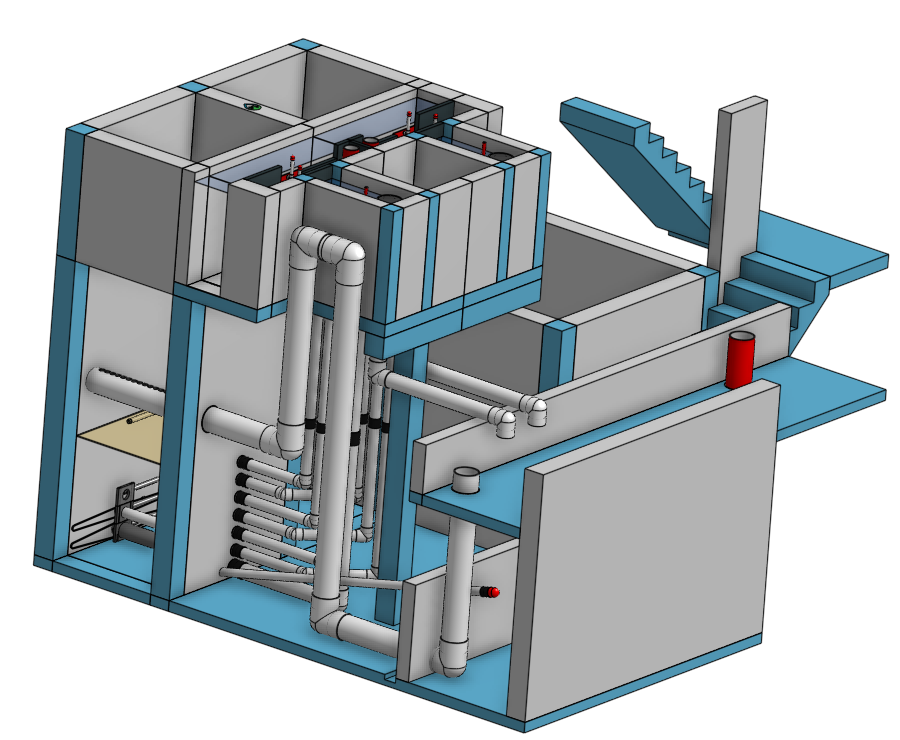
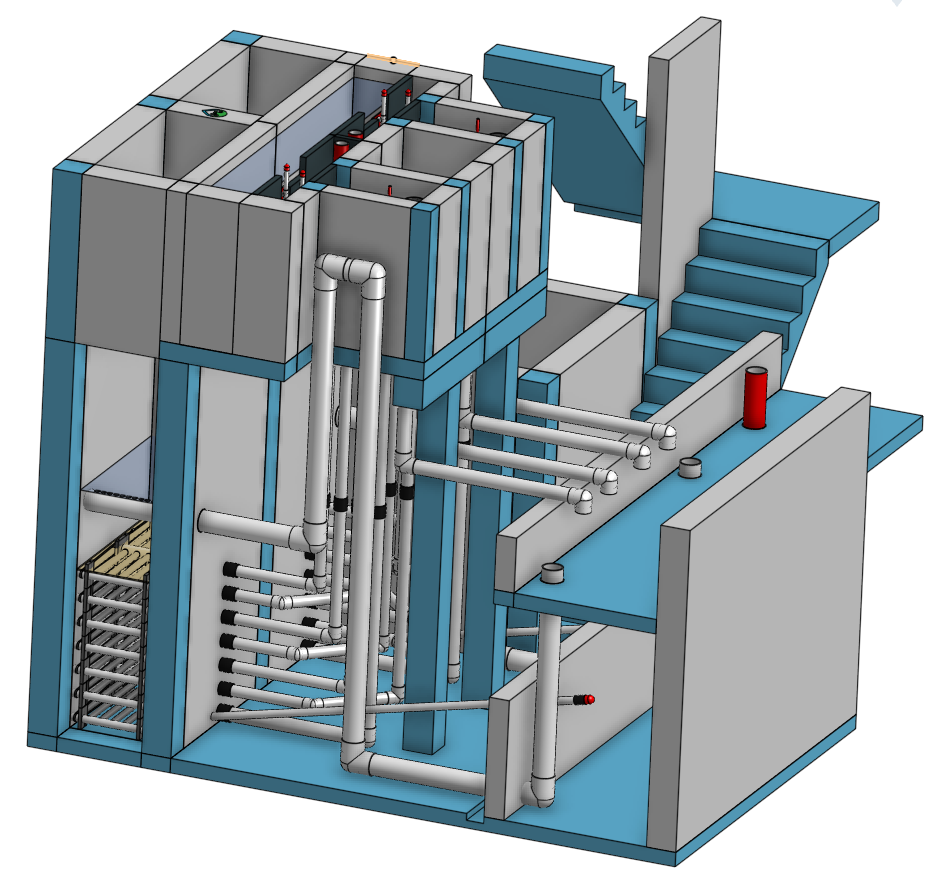
update OStaRS for about

diff --git a/AIDE/Specifications.rst b/AIDE/Specifications.rst
@@ -78,9 +78,9 @@ A. For each chemical, the plant shall include two or more storage tanks. The tan
 Chemical Feed System
 --------------------
 
-The plant shall be equipped with a chemical feed system configured as shown in :numref:`figure_chemDoseController`. Materials that will be in contact with chemicals must be compatible with the chemical and suitable for use with potable water.
+The plant shall be equipped with a chemical feed system configured as shown in :numref:`figure_spec_chemDoseController`. Materials that will be in contact with chemicals must be compatible with the chemical and suitable for use with potable water.
 
-.. _figure_chemDoseController:
+.. _figure_spec_chemDoseController:
 
 .. figure:: ../Images/CDC_derivation.png
     :width: 500px
@@ -91,14 +91,14 @@ The plant shall be equipped with a chemical feed system configured as shown in :
 
 A. Constant Level Tank
 
-   1. From the chemical storage tanks, the chemical passes via gravity to a constant head tank. The chemical enters the constant head tank via a float valve, which maintains a constant level of chemical in the constant head tank, providing a constant head to drive the chemical through the doser.
+   1. From the chemical storage tanks, the chemical passes via gravity to a constant level tank (see :numref:`figure_spec_constantLevelTank`). The chemical enters the constant level tank via a float valve, which maintains a constant level of chemical, providing a constant head to drive the chemical through the doser.
 
-   #. The chemical level in the constant head tank shall be level with the fulcrum of the dosing lever.
+   #. The chemical level in the constant level tank shall be level with the fulcrum of the dosing lever.
 
-   #. The vertical distance from the constant head tank level to the end of the dosing hose at max flow and max dose shall be 20 cm.
+   #. The vertical distance from the constant level tank level to the end of the dosing hose at max flow and max dose shall be 20 cm.
 
 
-.. _figure_constantLevelTank:
+.. _figure_spec_constantLevelTank:
 
 .. figure:: ../Images/CLT.png
     :width: 600px
@@ -109,9 +109,9 @@ A. Constant Level Tank
 
 B. Dosing Tubes
 
-   1. Chemical flows from the constant head tank into dosing tubes, which terminate in a free discharge at the dose slider on the doser lever.
+   1. Chemical flows from the constant level tank into dosing tubes, which terminate in a free discharge at the dose slider on the doser lever.
 
-   #. The diameter of the tubes shall be designed to provide laminar flow over the desired range of chemical flows. Given the laminar flow, the flowrate through the dosing tubes will be directly proportional to elevation difference between the chemical level in the constant head tank and the dose slider.
+   #. The diameter of the tubes shall be designed to provide laminar flow over the desired range of chemical flows. Given the laminar flow, the flowrate through the dosing tubes will be directly proportional to elevation difference between the chemical level in the constant level tank and the dose slider.
 
    #. The plant shall have a spare set of dosing tubes on hand so that one set of tubes can be cleaned while the other set is in use.
 
@@ -119,7 +119,7 @@ B. Dosing Tubes
 
 #. Chemical Dose Controller |Doser|
 
-   1. One end of the chemical dose controller is connected to a float in the plant entrance tank. The dose slider and thus the ends of the doser hoses are located on the other half of the chemical dose controller lever.
+   1. One end of the chemical dose controller (see :numref:`figure_spec_doser`) is connected to a float in the plant entrance tank. The dose slider and thus the ends of the doser hoses are located on the other half of the chemical dose controller lever.
 
    #. To provide a reasonable maximum angle of the lever system the lever shall be at least four times as long as the LFOM change in water depth.
 
@@ -135,18 +135,18 @@ B. Dosing Tubes
 
 D. Function
 
-   1. The doser is designed so that the operator can select a chemical dose (mass of chemical per volume of water) by moving the dose slider to a specific position along the lever. The lever, LFOM and constant head tank then work together to adjust the chemical flow proportional to the plant flow to maintain a constant chemical dose.
+   1. The doser is designed so that the operator can select a chemical dose (mass of chemical per volume of water) by moving the dose slider to a specific position along the lever. The lever, LFOM and constant level tank then work together to adjust the chemical flow proportional to the plant flow to maintain a constant chemical dose.
 
    #. When the plant flow is zero, the lever is horizontal and chemical flow is zero.
 
    #. When plant flow increases, the water level in the entrance tank increases (due additional head loss through the LFOM), causing one end of the doser lever to rise. This, in turn, causes the other end of the lever, and the dose slider, to fall, increasing the elevation difference between the chemical level in the constant level tank and the dose slider. The greater driving head increases the chemical flow through the doser.
 
-   #. Because the entrance tank level (due to the LFOM) is directly proportional to the plant flow rate, the dose slider elevation is directly proportional to the entrance chamber level, and the chemical flow is directly proportional to the dose slider elevation, the chemical flow is directly proportional to the plant flow.
+   #. Because the entrance tank level is directly proportional to the plant flow rate (due to the LFOM), the dose slider elevation is directly proportional to the entrance tank level, and the chemical flow is directly proportional to the dose slider elevation, the chemical flow is directly proportional to the plant flow.
 
 Entrance Tank |EntranceTank|
 ============================
 
-For more detailed information see :ref:`Entrance Tank Design <title_entrance_tank_design>`. The entrance tank has multiple functions in a drinking water treatment plant.
+For more detailed information see :ref:`Entrance Tank Design <title_entrance_tank_design>`. The entrance tank (see :numref:`figure_spec_ET_Diagram_Labeled`) has multiple functions in a drinking water treatment plant.
 
 #. Remove air bubbles to reduce splashing, turbulence, and unsteady motion of the chemical feed surface tracking lever system
 #. Remove grit to prevent accumulation in the flocculator
@@ -155,7 +155,7 @@ For more detailed information see :ref:`Entrance Tank Design <title_entrance_tan
 #. Measure the incoming flow rate so that operators can make adjustments and respond to changes in water demand
 #. Inject the coagulant and any other amendments required for flocculation
 
-.. _figure_ET_Diagram_Labeled:
+.. _figure_spec_ET_Diagram_Labeled:
 
 .. figure:: ../Images/ET_Diagram_Labeled.png
     :width: 900px
@@ -204,7 +204,7 @@ A. The plant entrance tank shall be equipped with a device that will result in a
 Flocculator
 ===========
 
-For more detailed information see :ref:`Flocculation Design <title_Flocculation_Design>`. AguaClara flocculators have three potential flow patterns (see :numref:`figure_flocculator_Geometry`) depending on the flow rate, plant layout, and velocity gradient.
+For more detailed information see :ref:`Flocculation Design <title_Flocculation_Design>`. AguaClara flocculators have three potential flow patterns (see :numref:`figure_spec_flocculator_Geometry`) depending on the flow rate, plant layout, and velocity gradient.
 
 #. |FlocculatorVH| Vertical - Horizontal: Flows between 0.5 L/s and 20 L/s are efficiently handled by a Vertical-Horizontal flow flocculator as shown in :numref:`figure_VHflocculator`.
 
@@ -212,7 +212,7 @@ For more detailed information see :ref:`Flocculation Design <title_Flocculation_
 
 #. |FlocculatorHH| Horizontal - Horizontal: As the flow increases above 200 L/s the optimal design will switch to a horizontal-horizontal flocculator as shown in :numref:`figure_HHflocculator`.
 
-.. _figure_flocculator_Geometry:
+.. _figure_spec_flocculator_Geometry:
 
 .. figure:: ../Images/flocculator_Geometry.png
   :align: center
@@ -263,12 +263,12 @@ A. The walls of the flocculation channels should be vertical, maintaining the ch
 Baffles
 -------
 
-A. The flocculation baffles must be constructed to be removable. A baffle module (see :numref:`figure_baffleModule`) should be raisable by one operator working alone so that water can flow beneath the baffle and drain from the flocculator channel. Large flocculators may have baffle modules that require more than one person to completely remove from the flocculator channel.
+A. The flocculation baffles must be constructed to be removable. A baffle module (see :numref:`figure_spec_baffleModule`) should be raisable by one operator working alone so that water can flow beneath the baffle and drain from the flocculator channel. Large flocculators may have baffle modules that require more than one person to completely remove from the flocculator channel.
 
 #. The flocculation baffles should be constructed from polycarbonate sheets, and the frame for holding together baffle modules should be made from PVC. Other materials may be used if justification is provided, including the use of ferrocement baffles for horizontal flocculators in large plants.
 
 
-.. _figure_baffleModule:
+.. _figure_spec_baffleModule:
 
 .. figure:: ../Images/baffleModule.png
   :align: center
@@ -281,9 +281,11 @@ A. The flocculation baffles must be constructed to be removable. A baffle module
 Clarifier |Clarifier|
 =====================
 
-For more detailed information see :ref:`Clarifier Design <title_Clarifier_Design>`. The clarifier must be designed based on the coldest water temperature and based on the lowest density primary particles that will need to be captured. Surface waters with high concentrations of dissolved organic matter and low concentrations of suspended solids produce low density flocs and thus the velocity gradient in the inlet manifold and jet reverser must be reduced.
+For more detailed information see :ref:`Clarifier Design <title_Clarifier_Design>`. The clarifier (see :numref:`figure_spec_clarifierElevation`) contains three separate processes: floc filter, plate settlers, and floc hopper.
 
-.. _figure_clarifierElevation:
+The clarifier must be designed based on the coldest water temperature and based on the lowest density primary particles that will need to be captured. Surface waters with high concentrations of dissolved organic matter and low concentrations of suspended solids produce low density flocs and thus the velocity gradient in the inlet manifold and jet reverser must be reduced.
+
+.. _figure_spec_clarifierElevation:
 
 .. figure:: ../Images/clarifierElevation.png
   :align: center
@@ -295,7 +297,7 @@ For more detailed information see :ref:`Clarifier Design <title_Clarifier_Design
 Design Goals
 ------------
 
-The high-rate, vertical flow Clarifier is designed with the following goals:
+The high-rate, vertical flow clarifier is designed with the following goals:
 
 A. To deliver flocs to the clarifier bay without breaking them into pieces with terminal velocities below the capture velocity of the plate settlers. This sets the maximum velocity gradient for the transfer of the flocs from the flocculator to the floc filter in the clarifier bay. The maximum velocity gradient shall be less than 250 Hz and lower values will be required for raw waters with high concentrations of dissolved organic matter.
 
@@ -319,9 +321,9 @@ A. To deliver flocs to the clarifier bay without breaking them into pieces with 
 Inlet Channel
 ----------------
 
-The inlet channel (see :numref:`figure_ClarifierInletOutletHydraulics`) is designed to have a velocity head that is very small compared with the head loss in the outlet manifold orifices to achieve uniform flow distribution between clarifier bays. The inlet channel is sloped up in the direction of flow to maintain relatively uniform velocity for improved flow distribution and to reduce floc deposition in the channel.
+The inlet channel (see :numref:`figure_spec_ClarifierInletOutletHydraulics`) is designed to have a velocity head that is very small compared with the head loss in the outlet manifold orifices to achieve uniform flow distribution between clarifier bays. The inlet channel is sloped up in the direction of flow to maintain relatively uniform velocity for improved flow distribution and to reduce floc deposition in the channel.
 
-.. _figure_ClarifierInletOutletHydraulics:
+.. _figure_spec_ClarifierInletOutletHydraulics:
 
 .. figure:: ../Images/ClarifierInletOutletHydraulics.png
   :align: center
@@ -340,11 +342,11 @@ Achieving reasonable flow distribution between diffusers may require a flow equa
 Diffusers
 ---------
 
-The orifices and diffusers point down to the bottom of the clarifier bay and extend along the length of the pipe at regular intervals to ensure that water is evenly distributed within the bay. Diffusers are designed to ensure that the jet exiting the jet reverser has a maximum velocity gradient that meets the same design constraint as the inlet manifold (see Equation :eq:`planejet_v_max_of_q`).
+The orifices and diffusers point down to the bottom of the clarifier bay and extend along the length of the pipe at regular intervals to ensure that water is evenly distributed within the bay. Diffusers are designed to ensure that the jet exiting the jet reverser has a maximum velocity gradient that is less than the design constraint to prevent excessive floc breakup (see Equation :eq:`planejet_v_max_of_q`).
 
-Diffusers are shaped so that one end is molded to be a reduced diameter that fits into the influent manifold port, and the other end is deformed to the shape of a rectangle. This deformation is done to create a line jet entering the jet reverser in the bottom of the clarifier bay and to enhance flow distribution by maximizing the jet velocity given the constraints of Equation :eq:`planejet_v_max_of_q`.
+Diffusers are shaped so that one end is molded to be a reduced diameter that fits into the influent manifold port, and the other end is deformed to the shape of a rectangle (:numref:`figure_spec_diffuser_dimensions`). This deformation is done to create a line jet entering the jet reverser in the bottom of the clarifier bay and to enhance flow distribution by maximizing the jet velocity given the constraints of Equation :eq:`planejet_v_max_of_q`.
 
-.. _figure_diffuser_dimensions:
+.. _figure_spec_diffuser_dimensions:
 
 .. figure:: ../Images/diffuser_dimensions.png
    :width: 500px
@@ -356,11 +358,11 @@ Diffusers are shaped so that one end is molded to be a reduced diameter that fit
 Jet Reverser
 ------------
 
-The jet reverser consists of a longitudinally-cut half-pipe that is laid in the bottom of the bay (see :numref:`figure_clarifierEndView`). It functions as a way to keep flocs suspended in the sedimentation tank by ensuring that any sludge that settles will be propelled back up by the force of the diffuser jet.
+The jet reverser consists of a longitudinally-cut half-pipe that is laid in the bottom of the bay (see :numref:`figure_spec_clarifierEndView`). It functions as a way to keep flocs suspended in the sedimentation tank by ensuring that any sludge that settles will be propelled back up by the force of the diffuser jet.
 
 The diffusers are offset from the jet reverser centerline. This is intentionally done to promote the resuspension of flocs, which form a floc filter for primary filtration.
 
-.. _figure_clarifierEndView:
+.. _figure_spec_clarifierEndView:
 
 .. figure:: ../Images/clarifierEndView.png
    :width: 500px
@@ -387,16 +389,16 @@ A. The line jet from the diffusers enters the jet reverser to force flow up thro
 Sloped Bottom Geometry
 ----------------------
 
-The clarifier bottom geometry (see :numref:`figure_clarifierEndView`) prevents sludge accumulation while also ensuring good flow distribution. The slope on either side of the diffusers is at a 50 degree angle above horizontal. The bottom geometry allows for smooth flow expansion to the entire plan view area of the bay, and ensures that all flocs that settle are transported to the jet reverser. The diffusers do not touch the bottom of the tank so that flocs on both sides of the diffuser can return to the jet reverser for resuspension. Thus, there is no accumulation of settled flocs in the main clarifier bays.
+The clarifier bottom geometry (see :numref:`figure_spec_clarifierEndView`) prevents sludge accumulation while also ensuring good flow distribution. The slope on either side of the diffusers is at a 50 degree angle above horizontal. The bottom geometry allows for smooth flow expansion to the entire plan view area of the bay, and ensures that all flocs that settle are transported to the jet reverser. The diffusers do not touch the bottom of the tank so that flocs on both sides of the diffuser can return to the jet reverser for resuspension. Thus, there is no accumulation of settled flocs in the main clarifier bays.
 
 Floc Hopper
 -----------
 
-The floc hopper (:numref:`figure_flocHopper`) provides an opportunity for floc consolidation. The floc weir controls the depth of the floc filter because as the floc filter grows, it will eventually reach the top of the floc weir. Because flocs are more dense than water, the flocs “spill” over the edge of the floc weir which allows the floc filter to stay a constant height while sludge accumulates and consolidates in the floc hopper.
+The floc hopper (:numref:`figure_spec_flocHopper`) provides an opportunity for floc consolidation. The floc weir controls the depth of the floc filter because as the floc filter grows, it will eventually reach the top of the floc weir. Because flocs are more dense than water, the flocs “spill” over the edge of the floc weir which allows the floc filter to stay a constant height while sludge accumulates and consolidates in the floc hopper.
 
 There is a manual valve at the drain of the floc hopper. Operators can open the floc hopper drain valve whenever they want to easily drain the sludge. The floc hopper allows for a self-cleaning clarifier. Operators only have to clean the clarifier once every three to six months because there is no stagnant accumulation of anoxic sludge.
 
-.. _figure_flocHopper:
+.. _figure_spec_flocHopper:
 
 .. figure:: ../Images/flocHopper.png
    :width: 400px
@@ -410,9 +412,9 @@ Plate Settlers
 
 After flowing through the floc filter, flocs reach the plate settlers. Plate settlers are sloped surfaces that provide additional settling area for flocs, thereby increasing the effective settling area of the clarifier without increasing the plan view area. AguaClara plate settlers are sloped at 60 degrees. The spacing between plates is 2.5 cm.
 
-The plate settlers are made from clear polycarbonate sheets. The sheets are assembled in modules. The modules are light enough to be removed from the clarifier by hand. The plate settler modules are supported by ledges along the clarifier bay walls and by a PVC pipe frame.
+The plate settlers are made from clear polycarbonate sheets. The sheets are assembled in modules (see :numref:`figure_spec_plateSettlerModule`). The modules are light enough to be removed from the clarifier by hand. The plate settler modules are supported by ledges along the clarifier bay walls and by a PVC pipe frame.
 
-.. _figure_plateSettlerModule:
+.. _figure_spec_plateSettlerModule:
 
 .. figure:: ../Images/plateSettlerModule.png
    :width: 300px
@@ -457,12 +459,21 @@ After the water flows over the outlet weir, it is collected in the outlet channe
 Stacked Rapid Sand Filter |OStaRS|
 ==================================
 
-For more detailed information see :ref:`Filtration Design <title_Filtration_Design>`. Stacked Rapid Sand, StaRS, filters were invented in 2010 by the AguaClara Cornell program in response to the need for a new technology that would both eliminate the need for backwash pumps and not require the construction of 6 filters for small towns. As shown in the figure below, StaRS filters use six 20 cm deep layers of sand with the layers stacked vertically. The six layers give a total active sand depth of 1.2 m.
+For more detailed information see :ref:`Filtration Design <title_Filtration_Design>`. Stacked Rapid Sand, StaRS, filters (see :numref:`figure_spec_OStaRSoverview`) were invented in 2010 by the AguaClara Cornell program in response to the need for a new technology that would both eliminate the need for backwash pumps and not require the construction of 6 filters for small towns. As shown in the figure below, StaRS filters use six 20 cm deep layers of sand with the layers stacked vertically. The six layers give a total active sand depth of 1.2 m.
+
+.. _figure_spec_OStaRSoverview:
+
+.. figure:: ../Images/OStaRSoverview.png
+   :width: 500px
+   :align: center
+   :alt: Floc Hopper
+
+   The open stacked rapid sand filters include advanced hydraulic controls to ensure stable operation during both filtration and backwash modes.
 
 Operation
 ---------
 
-A. The filter operates with the same design flow rate for both backwash and filtration modes and uses settled water for backwash. This eliminates the startup problem for rapid sand filters that do not have an initial source of backwash water.
+A. The filter operates with the same design flow rate for both backwash and filtration modes and uses clarified water for backwash. This eliminates the need for backwash pumps and ensures that the filters can be backwashed as long as clarified water is available.
 
 #. Filtration Mode:
 

diff --git a/AIDE/About/OStaRS.rst b/AIDE/About/OStaRS.rst
@@ -75,6 +75,10 @@ Edit the configurations to create new models of the stacked rapid sand filter. S
    Minimum temperature (˚C), The temperature has a small effect on the head loss through the clean filter bed.
    "",""
    Spare Filter, If selected this will add filter capacity so that one filter can be taken off line while operating at the plant maximum flow rate.
+   "",""
+   "Fraction of clogged bed head loss", "A clean filter corresponds to a value of 0 and a clogged filter corresponds to a value of 1. The water levels change to reflect this head loss."
+   "",""
+   Filter Mode, "If selected the filter is in filtration mode, otherwise the filter is in backwash mode. The water levels change to reflect the filter mode."
 
 
 Additional information is available in the chapter on `Filter Design <https://aguaclara.github.io/Textbook/Filtration/Filtration_Design.html>`_

diff --git a/Filtration/Filtration_Design.rst b/Filtration/Filtration_Design.rst
@@ -8,9 +8,18 @@
 .. _title_Filtration_Design:
 
 
-********************************
-Stacked Rapid Sand Filter Design
-********************************
+*************************************
+Open Stacked Rapid Sand Filter Design
+*************************************
+
+.. _figure_OStaRSoverview:
+
+.. figure:: ../Images/OStaRSoverview.png
+   :width: 400px
+   :align: center
+   :alt: Floc Hopper
+
+   The open stacked rapid sand filters include advanced hydraulic controls to ensure stable operation during both filtration and backwash modes.
 
 Nomenclature
 ============
